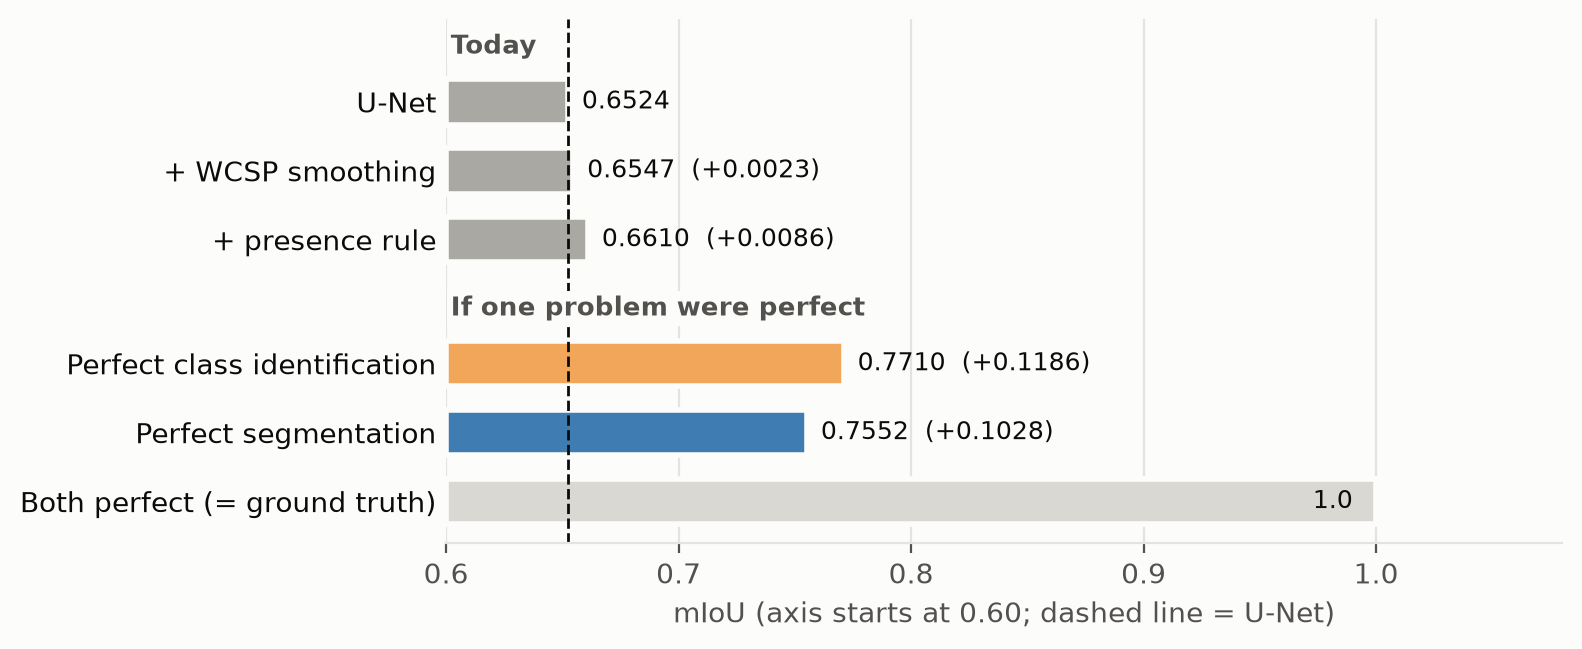
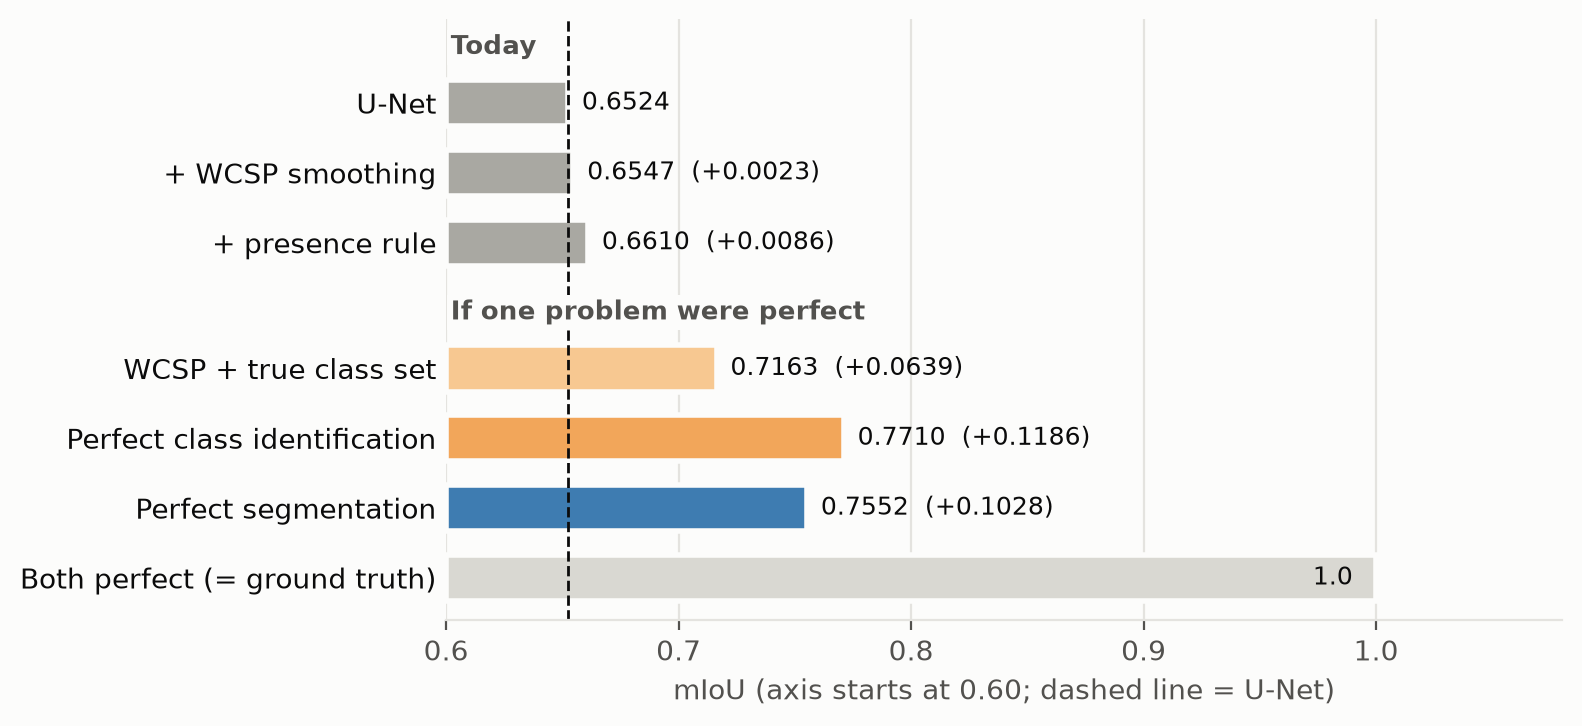
Deliverable 7: true-class-set bound in Test 2 chart; per-method example figures
Claude-Session: https://claude.ai/code/session_01CTh5Qud5ucWXzk6pK8w2Lo

Changed region(s): [[0.0, 0.0308, 0.9912, 0.9861]]

diff --git a/docs/deliverable7/index.html b/docs/deliverable7/index.html
@@ -211,7 +211,7 @@
 
 <h4>Test 2 · What is fixing each one worth?</h4>
 <img src="prelim_ladder.png" alt="mIoU today vs. with each problem made perfect">
-<div class="take">Either fix is worth about +0.10 to +0.12. Presence and smoothing recover a small fraction.</div>
+<div class="take">Either fix is worth about +0.10 to +0.12. Even just the right class set lets WCSP gain +0.0639, eight times what presence gets now, so <b>picking the class set is the bottleneck</b>, not WCSP.</div>
 
 <h3 id="bcss-results">Results</h3>
 
@@ -223,14 +223,11 @@
 <img src="bcss_fixes.png" alt="BCSS mIoU for WCSP, cluster and presence combinations, dev and val">
 <div class="take">Presence + cluster is best (+0.0075 on held-out val), but far below the ~+0.1 available. On the full-resolution U-Net, presence adds +0.0086.</div>
 
-<h5>Is the bottleneck the class set or WCSP?</h5>
-<div class="wrap"><table>
-  <tr><th>Dev (185 tiles)</th><th class="num">Tiles with the exact true class set</th><th class="num">mIoU</th></tr>
-  <tr><td>U-Net</td><td class="num">56.8%</td><td class="num">0.7067</td></tr>
-  <tr><td>WCSP + presence (our class set)</td><td class="num">66.5%</td><td class="num">0.7229 <span class="d">(+0.0162)</span></td></tr>
-  <tr class="hl"><td>WCSP + true class set (upper bound)</td><td class="num">100%</td><td class="num">0.7883 <span class="d">(+0.0816)</span></td></tr>
-</table></div>
-<div class="take"><b>Picking the class set is the bottleneck:</b> with the right set, WCSP gains five times more. Presence still gets a third of tiles' sets wrong.</div>
+<h5>Examples (same 3 dev tiles for every method)</h5>
+<img src="examples_wcsp.png" alt="Examples: WCSP">
+<img src="examples_wcsp_presence.png" alt="Examples: WCSP + presence, with class sets">
+<img src="examples_wcsp_cluster.png" alt="Examples: WCSP + cluster">
+<img src="examples_wcsp_presence_cluster.png" alt="Examples: WCSP + presence + cluster, with class sets">
 
 <h5>Other data-derived rules tried</h5>
 <div class="wrap"><table>

diff --git a/deliverables/figures_20261123/method_examples.py b/deliverables/figures_20261123/method_examples.py
@@ -1,0 +1,117 @@
+# Example tiles per BCSS WCSP fix, in the old report format:
+#   image | ground truth | U-Net | method | changed pixels (coloured by their new class)
+# Same 3 dev tiles for every method: the 3 tiles where presence + cluster gains most pixel
+# accuracy over the U-Net while removing at least one class (fixed rule, chosen once).
+# Presence rows also list the class sets: U-Net's, kept by presence, and true.
+#
+#   python deliverables/figures_20261123/method_examples.py
+
+import csv
+import sys
+from pathlib import Path
+
+import matplotlib
+
+matplotlib.use("Agg")
+import matplotlib.pyplot as plt  # noqa: E402
+import numpy as np  # noqa: E402
+
+OUT = Path(__file__).resolve().parent
+sys.path.insert(0, str(OUT.parents[1]))
+
+from wcsp import pipeline  # noqa: E402
+from wcsp.config import load_config  # noqa: E402
+from wcsp.labels import COLORS, IGNORE  # noqa: E402
+from wcsp.viz import overlay  # noqa: E402
+
+RUNS = Path("/scratch1/ubhuwani/wcsp/runs")
+METHODS = [("WCSP", "r_control", False), ("WCSP + presence", "r_g3000", True),
+           ("WCSP + cluster", "c2_both_256_refine", False), ("WCSP + presence + cluster", "kc_g", True)]
+SHORT = ["T", "I", "S", "N", "O"]
+NAMES = ["Tumor", "Inflammatory", "Stroma", "Necrosis", "Other"]
+INK, MUTED, SURFACE = "#0b0b0b", "#52514e", "#fcfcfb"
+
+
+def load(run):
+    z = np.load(RUNS / run / "dev" / "shard_0000_of_0001.npz")
+    present = {}
+    path = RUNS / run / "dev" / "per_sample.csv"
+    for r in csv.DictReader(open(path)):
+        if r.get("present"):
+            present[r["id"]] = int(float(r["present"]))
+    return {str(i): (a, w) for i, a, w in zip(z["ids"], z["argmax"], z["wcsp"])}, present
+
+
+def set_text(mask_or_bool):
+    return "{" + ", ".join(SHORT[k] for k in range(5) if mask_or_bool[k]) + "}"
+
+
+def classes(labels, target):
+    ok = target != IGNORE
+    return np.bincount(labels[ok].astype(int), minlength=5)[:5] / max(ok.sum(), 1) >= 0.01
+
+
+def changed_panel(image, before, after):
+    out = np.asarray(image, dtype=np.float64) * 0.55 + 255 * 0.45
+    diff = before != after
+    out[diff] = np.asarray(COLORS)[after[diff]]
+    return out.astype(np.uint8), diff.mean()
+
+
+def main():
+    cfg = load_config("experiments/bcss_wcsp/configs/bcss_rules.yaml")
+    data = pipeline.dataset_for(cfg, "dev")
+    runs = {name: load(run) for name, run, _ in METHODS}
+    best = runs["WCSP + presence + cluster"][0]
+    scores = []
+    for tid, (raw, out) in best.items():
+        target = data[data.index(tid)].grid_target
+        ok = target != IGNORE
+        if ok.mean() < 0.9:
+            continue
+        gain = (out[ok] == target[ok]).mean() - (raw[ok] == target[ok]).mean()
+        removed = (classes(raw, target) & ~classes(out, target)).any()
+        scores.append((gain if removed else -1, tid))
+    picks = [t for _, t in sorted(scores, reverse=True)[:3]]
+    print("tiles:", picks)
+
+    for name, run, has_presence in METHODS:
+        labels, present = runs[name]
+        fig, axes = plt.subplots(3, 5, figsize=(13, 8.6), gridspec_kw={"hspace": 0.42, "wspace": 0.04})
+        for r, tid in enumerate(picks):
+            sample = data[data.index(tid)]
+            img, target = sample.grid_image[..., :3], sample.grid_target
+            raw, out = labels[tid]
+            ok = target != IGNORE
+            acc = lambda a: 100 * (a[ok] == target[ok]).mean()  # noqa: E731
+            changed, frac = changed_panel(img, raw, out)
+            panels = [(img, "Image"), (overlay(img, target), "Ground truth"),
+                      (overlay(img, raw), f"U-Net ({acc(raw):.1f}%)"),
+                      (overlay(img, out), f"{name} ({acc(out):.1f}%)"), (changed, f"Changed ({100 * frac:.1f}%)")]
+            for c, (data_, title) in enumerate(panels):
+                ax = axes[r, c]
+                ax.imshow(data_)
+                ax.set_xticks([])
+                ax.set_yticks([])
+                for sp in ax.spines.values():
+                    sp.set_visible(False)
+                ax.set_title(title, fontsize=9.5, color=INK if c else MUTED)
+            line = f"Tile {r + 1}"
+            if has_presence:
+                kept = [bool(present.get(tid, 0) >> k & 1) for k in range(5)]
+                line += (f"  ·  classes: U-Net {set_text(classes(raw, target))} → presence keeps "
+                         f"{set_text(kept)}  ·  true {set_text(classes(target, target))}")
+            axes[r, 0].text(0, 1.2, line, transform=axes[r, 0].transAxes, fontsize=10, color=INK,
+                            fontweight="bold", va="bottom")
+        handles = [plt.Rectangle((0, 0), 1, 1, color=np.asarray(c) / 255) for c in COLORS]
+        fig.legend(handles, [f"{n} ({s})" for n, s in zip(NAMES, SHORT)], loc="lower center", ncol=5,
+                   frameon=False, bbox_to_anchor=(0.5, 0.03))
+        fig.suptitle(f"{name}: three dev tiles (pixel accuracy in brackets)", x=0.125, ha="left", y=0.97,
+                     fontsize=12, fontweight="bold", color=INK)
+        slug = name.lower().replace(" + ", "_").replace(" ", "_")
+        fig.savefig(OUT / f"examples_{slug}.png", dpi=150, bbox_inches="tight", facecolor=SURFACE)
+        print("wrote", slug)
+
+
+if __name__ == "__main__":
+    main()

diff --git a/deliverables/figures_20261123/prelim_figures.py b/deliverables/figures_20261123/prelim_figures.py
@@ -251,15 +251,17 @@ def fig_split_v2(seg_pct, cls_pct, overall=(48, 52)):
     fig.savefig(OUT / "prelim_error_split.png", dpi=200, bbox_inches="tight")
 
 
-def fig_ladder_v2(raw, wcsp, presence, class_id, seg):
+def fig_ladder_v2(raw, wcsp, presence, class_id, seg, true_set=None):
     """Test 2: today's methods vs. each problem made perfect, on one mIoU axis up to 1.0."""
     rows = [("U-Net", raw, GRAY, "Today"), ("+ WCSP smoothing", wcsp, GRAY, "Today"),
             ("+ presence rule", presence, GRAY, "Today"),
+            ("WCSP + true class set", true_set, "#f7c891", "If perfect"),
             ("Perfect class identification", class_id, "#f2a65a", "If perfect"),
             ("Perfect segmentation", seg, "#3e7cb1", "If perfect"),
             ("Both perfect (= ground truth)", 1.0, "#d9d8d2", "If perfect")]
-    fig, ax = plt.subplots(figsize=(7.2, 3.4))
-    ys = np.array([6.4, 5.4, 4.4, 2.6, 1.6, 0.6])
+    rows = [r for r in rows if r[1] is not None]
+    fig, ax = plt.subplots(figsize=(7.2, 3.9))
+    ys = np.array([7.4, 6.4, 5.4, 3.6, 2.6, 1.6, 0.6])[-len(rows):] if len(rows) == 7 else np.array([6.4, 5.4, 4.4, 2.6, 1.6, 0.6])
     lo = 0.6
     for y, (name, v, c, _) in zip(ys, rows):
         ax.barh(y, v - lo, left=lo, color=c, height=0.66, edgecolor=SURFACE, linewidth=2)
@@ -269,13 +271,13 @@ def fig_ladder_v2(raw, wcsp, presence, class_id, seg):
         txt = f"{v:.4f}" if name == "U-Net" else f"{v:.4f}  ({v - raw:+.4f})"
         ax.text(v + 0.006, y, txt, va="center", color=INK, fontsize=9)
     ax.axvline(raw, color=INK, linewidth=1, linestyle="--", zorder=2)
-    for y, text in ((7.2, "Today"), (3.4, "If one problem were perfect")):
+    for y, text in ((ys[0] + 0.8, "Today"), (ys[3] + 0.8, "If one problem were perfect")):
         ax.text(lo + 0.002, y, text, color=MUTED, fontsize=9.5, fontweight="bold", va="center", zorder=5,
                 bbox={"facecolor": SURFACE, "edgecolor": "none", "pad": 1.5})
     ax.set_yticks(ys, [r[0] for r in rows])
     ax.tick_params(axis="y", length=0)
     ax.set_xlim(lo, 1.08)
-    ax.set_ylim(0, 7.6)
+    ax.set_ylim(0, ys[0] + 1.2)
     ax.set_xlabel("mIoU (axis starts at 0.60; dashed line = U-Net)")
     ax.grid(axis="x", color=GRID)
     ax.set_axisbelow(True)

diff --git a/deliverables/deliverable_7.md b/deliverables/deliverable_7.md
@@ -132,7 +132,7 @@ About even on average (9.4% vs 12.2%). Class identification dominates for "other
 
 ![Test 2](figures_20261123/prelim_ladder.png)
 
-Either fix is worth about +0.10 to +0.12. Presence and smoothing recover a small fraction.
+Either fix is worth about +0.10 to +0.12. Even just the right class set lets WCSP gain +0.0639, eight times what presence gets now, so **picking the class set is the bottleneck**, not WCSP.
 
 ### Results
 
@@ -145,15 +145,12 @@ Either fix is worth about +0.10 to +0.12. Presence and smoothing recover a small
 
 Presence + cluster is best (+0.0075 on held-out val), but far below the ~+0.1 available. On the full-resolution U-Net, presence adds +0.0086.
 
-##### Is the bottleneck the class set or WCSP?
+##### Examples (same 3 dev tiles for every method)
 
-| Dev (185 tiles) | Tiles with the exact true class set | mIoU |
-|---|---:|---:|
-| U-Net | 56.8% | 0.7067 |
-| WCSP + presence (our class set) | 66.5% | 0.7229 (+0.0162) |
-| **WCSP + true class set (upper bound)** | 100% | **0.7883 (+0.0816)** |
-
-**Picking the class set is the bottleneck:** with the right set, WCSP gains five times more. Presence still gets a third of tiles' sets wrong.
+![WCSP](figures_20261123/examples_wcsp.png)
+![WCSP + presence](figures_20261123/examples_wcsp_presence.png)
+![WCSP + cluster](figures_20261123/examples_wcsp_cluster.png)
+![WCSP + presence + cluster](figures_20261123/examples_wcsp_presence_cluster.png)
 
 ##### Other data-derived rules tried
 
